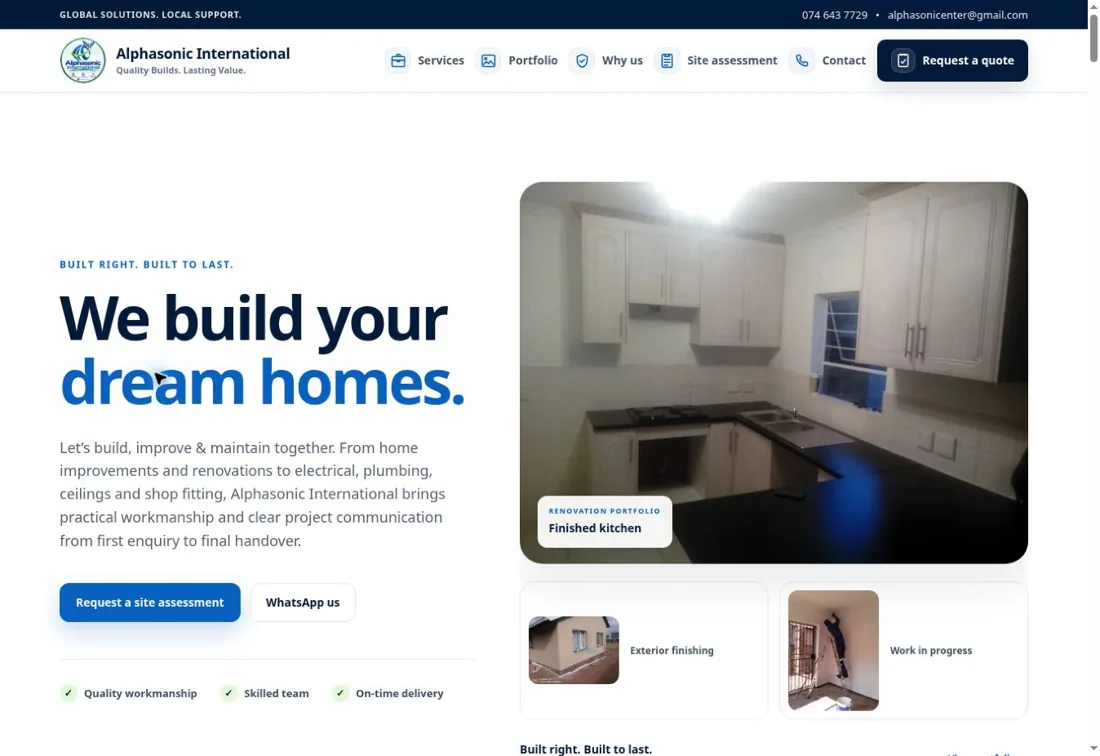
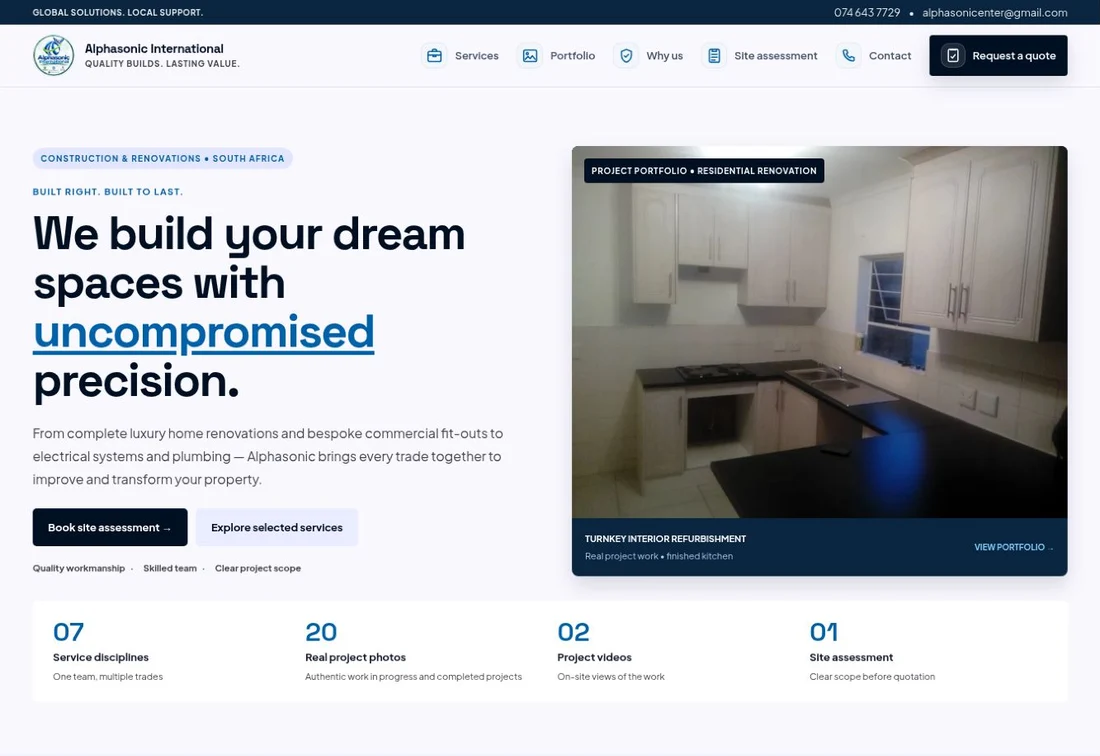
Refresh live portfolio projects and showcase Auntie & Uncle V2

diff --git a/lib/portfolio.ts b/lib/portfolio.ts
@@ -21,30 +21,41 @@ export const portfolioProjects: readonly PortfolioProject[] = [
     websiteUrl: "https://edubonke.github.io/EduBonke/",
     previewUrl: "https://edubonke.github.io/EduBonke/demo/",
     introduction: "A connected experience for college administration and the learner journey.",
-    description: "An education platform exploring admissions, attendance, assessments, portfolio evidence and finance in one workspace. The public demonstration offers separate student and staff experiences.",
-    scope: ["Product & interface design", "Student and staff workflows", "Interactive web application"],
+    description: "A South African college administration prototype connecting admissions, enrolments, attendance, assessments, portfolio evidence, finance, reporting and privacy workflows. Explore the updated student and staff demonstrations, including role-specific tools and printable academic progress records.",
+    scope: ["Student and staff workflows", "POE, assessment and reporting", "Role-specific prototype safeguards"],
     note: "The preview uses synthetic information and needs no account. It demonstrates the product experience; it is not a live college deployment.",
   },
   {
     id: "shiftstart", name: "ShiftStart", category: "IT support platform", status: "Independent product",
     image: "/assets/projects/shiftstart.webp",
-    imageAlt: "ShiftStart's public IT support library with search and symptom wizard controls",
-    websiteUrl: "https://h9b4y8mf87-bit.github.io/Shift-Start-IT-Support-assistent/",
-    previewUrl: "https://h9b4y8mf87-bit.github.io/Shift-Start-IT-Support-assistent/",
-    introduction: "Searchable support knowledge, shaped around a technician's next step.",
-    description: "An IT support knowledge platform with procedure search, a symptom wizard and a structured reading workspace. The interface makes content status and review requirements visible alongside the guidance.",
-    scope: ["Knowledge architecture", "Search & guided troubleshooting", "Responsive interface development"],
-    note: "Explore the public interface. Procedure verification status is shown within ShiftStart; inclusion here does not certify the technical guidance.",
+    imageAlt: "ShiftStart's redesigned dark operational support dashboard with knowledge coverage and verification controls",
+    websiteUrl: "https://edubonke.github.io/Shift-Start/",
+    previewUrl: "https://edubonke.github.io/Shift-Start/",
+    introduction: "An operational IT knowledge library with guided troubleshooting and an interactive operations lab.",
+    description: "The redesigned ShiftStart combines procedure search, the symptom wizard, knowledge health indicators and a three-pane procedure workspace. Its operations lab uses synthetic endpoints to demonstrate incident handover, retry and recovery workflows.",
+    scope: ["Knowledge architecture & verification", "Search & guided troubleshooting", "Operations training simulation"],
+    note: "Procedure verification status is shown within ShiftStart; inclusion here does not certify the technical guidance. The operations lab is a simulation. Open the full website for browser-storage features.",
   },
   {
     id: "alphasonic", name: "Alphasonic International", category: "Construction & renovations", status: "Business website",
     image: "/assets/projects/alphasonic.webp",
-    imageAlt: "Alphasonic International's construction website showing a finished kitchen and site assessment call to action",
+    imageAlt: "Alphasonic International's redesigned construction homepage featuring an actual kitchen renovation and site assessment call to action",
     websiteUrl: "https://edubonke.github.io/Alphasonic-International/",
     previewUrl: "https://edubonke.github.io/Alphasonic-International/",
     introduction: "Real project work and a clear route from browsing to a site assessment.",
-    description: "A service-led construction and renovation website bringing project photographs, video, service information and site assessment enquiries into one responsive experience.",
-    scope: ["Business website design", "Project & video gallery", "Site assessment enquiry journey"],
+    description: "The redesigned construction and renovation website presents seven service disciplines, an authentic project photo and video portfolio, and a dedicated site assessment experience with clearly scoped quote requests.",
+    scope: ["Responsive business website redesign", "Original project photo & video gallery", "Site assessment enquiry journey"],
     note: "This is the live business website. Enquiry forms and contact links connect to Alphasonic.",
+  },
+  {
+    id: "auntie-uncle", name: "Auntie & Uncle", category: "Household services marketplace", status: "Marketplace prototype",
+    image: "/assets/projects/auntie-uncle.webp",
+    imageAlt: "Auntie & Uncle's redesigned household services marketplace with service search, location filter and welcoming home imagery",
+    websiteUrl: "https://edubonke.github.io/Auntie-Uncle-V2/",
+    previewUrl: "https://edubonke.github.io/Auntie-Uncle-V2/",
+    introduction: "A marketplace designed to connect South African households with independent helpers.",
+    description: "Explore six household service categories, a searchable example helper directory, a fair-pay earnings simulator and sample booking and helper workflows. The V2 website presents a warmer, more accessible marketplace experience.",
+    scope: ["Marketplace UX & search", "Helper profiles and booking journeys", "Budget & earnings simulator"],
+    note: "The public preview currently uses fictional helper profiles and example rates. It is not a verified live marketplace. Do not enter real personal details or make a real booking in the portfolio preview.",
   },
 ];

diff --git a/app/page.tsx b/app/page.tsx
@@ -8,6 +8,7 @@ import { ExperienceLab } from "./components/ExperienceLab";
 import { WebsitePackages } from "./components/WebsitePackages";
 import { MotionToggle } from "./components/MotionSystem";
 import { sitePath } from "../lib/site-runtime";
+import { portfolioProjects } from "../lib/portfolio";
 const steps = [
  { title: "Understand", copy: "Your goals, your customers, and where the current experience gets in the way." },
  { title: "Shape", copy: "A clear first release and a prototype you can explore before we start building." },
@@ -18,7 +19,7 @@ const studioFacts = [
  { value: "R2,990", label: "Websites from", detail: "Transparent small-business launch pricing" },
  { value: "5", label: "Website packages", detail: "From Start to a complete online shop" },
  { value: "3–5 days", label: "Start package delivery", detail: "Working days after content, access and deposit" },
- { value: "3", label: "Selected projects", detail: "Explore our digital platforms and websites" },
+ { value: String(portfolioProjects.length), label: "Selected projects", detail: "Explore our digital platforms and websites" },
 ];
 export default function Home() {
  return <>
